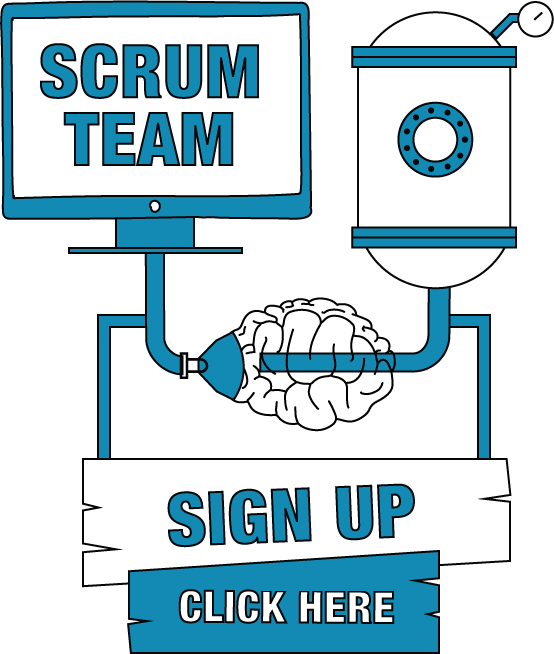
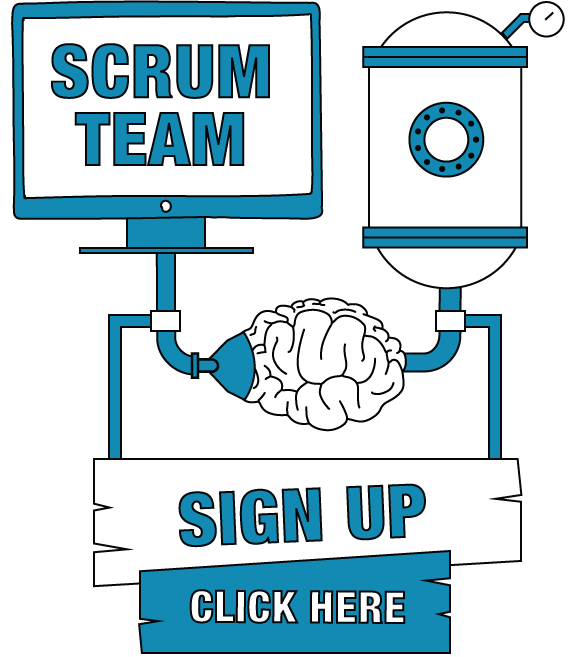
changed to updated images, small changes to dates, footer, removed signup button and added clickarea to image

Changed region(s): [[0.0, 0.0, 1.0, 1.0], [0.7058, 0.1529, 0.8592, 0.2752]]

diff --git a/src/app/home/home.tpl.html b/src/app/home/home.tpl.html
@@ -14,7 +14,7 @@
 		<!-- <h1>Capathon 2016 - Artificial Intelligence</h1> -->
 		<img src="assets/images/artificial_intelligence.png" height="223" width="545">
 
-		<p>After a very successful second edition, we are happy to welcome you all to the next edition: Capathon 2016 - Everybody Must Hack</p>
+		<p>After a very successful second edition, we are happy to welcome you all to the next edition: Capathon 2016 - Artificial Intelligence</p>
 		<p>On this site you will find more information about the event, such as the time and place, the rules, the teams, and you will have the opportunity to sign up for the event.</p>
 		<p>Of course we hope you will all participate. Please read through the site before signing up. See you all there!</p>
 		<p>Due to popularity, we will soon be reaching the maximum number of participants! Note that registration
@@ -45,18 +45,22 @@
 
 			<h2>Time and Place</h2>
 
-			<p>The Capathon kicks off on Thursday, the 4<sup>th</sup> of February 2016 at 18:00 at the <a href="http://www.haje.nu/hotel-heerenveen" target="_blank">Haj&eacute; Hotel Heerenveen</a> in Friesland (the North). The contest runs until the 6<sup>st</sup> of February... exactly 48 hours later. After that, the evening program then runs until around 22:00.</p>
+			<p>The Capathon kicks off on Thursday, the 4<sup>th</sup> of February 2016 at 18:00 at the <a href="http://www.haje.nu/hotel-heerenveen" target="_blank">Haj&eacute; Hotel Heerenveen</a> in Friesland. The contest runs until the 6<sup>st</sup> of February... exactly 48 hours later. After that, the evening program then runs until around 22:00.</p>
 
 			<h2>What's the deal on Friday?</h2>
 
 			<p>Good question. Employees from the following practices will get this friday as a gift from the company:</p>
 			<ul>
-				<li>B50 & B51</li>
-				<li>B60 & B61</li>
-				<li>B70 & B71</li>
-				<li>K51</li>
+				<li>B51</li>
+				<li>B61</li>
+				<li>B71</li>
+				<li>K51*</li>
+				<li>N21*</li>
 			</ul>
+			<p>*The capathon organization will need to get approval from your Practice Manager.</p>
 			<p>Employees from other practices / BUs will have to discuss this day with their manager...</p>
+			
+			
 
 		</div>
 </div>
@@ -80,7 +84,8 @@
 
 <div class="row">
 	<div class="col-md-6">
-		<img src="assets/images/image3.png" height="auto" width="100%"  alt="Capathon 2016">
+			<img src="assets/images/image3.png" height="auto" width="100%"  alt="Capathon 2016" usemap="signupmap">
+			<map name="signupmap"><area shape="rect" coords="90,455,520,655" ng-click="signUp()"></map>
 	</div>
 	<div class="col-md-6">
 	<!-- <h1>Signing up and Grooming session</h1> -->
@@ -96,12 +101,12 @@
 	</ul>
 	<p>Of course, the composition of your team can be changed later… However, the organization wants to know about how many people will be participating.
 	</p>
-	<p>You have to sign up via this website before the 31st of January.
+	<p>You have to sign up via this website before the 1st of January (requires Capgemini login).
 	</p>
 	<p>After the teams have been submitted, the team will be invited to participate in a ‘grooming session’. During this session, the team tell about their plans and the capathon organization will try to challenge these plans with the goal to come up with a realistic innovative backlog draft to be used during the Capathon. This backlog will also be shared with the other teams on this website.
 	</p>
 	
-	<button class="btn btn-primary" ng-click="signUp()">Click here to sign up (requires Capgemini login)</button>
+<!--	<button class="btn btn-primary" ng-click="signUp()">Click here to sign up (requires Capgemini login)</button>-->
 	</div>
 </div>
 
@@ -114,7 +119,7 @@
 	    <li>Your team size is a Scrum-team size (between 3 and 9 people)</li>
 	    <li>Your team participates in all mandatory events at the Capathon (presentation, physical challenges, quizzes, etc.)</li>
 	    <li>You bring your own devices. There are no devices provided for you. You are allowed to bring whatever you want (laptops, extra monitors, google glass, beamers, 3D-printers, etc.)</li>
-	    <li>You have to sign up your team before January 31st! Make sure you have a list of team members and ‘idea’ ready you want to work on</li>
+	    <li>You have to sign up your team before January 1st! Make sure you have a list of team members and ‘idea’ ready you want to work on</li>
 	    <li>Your team has taken part in one of the ‘grooming’ sessions before the event.</li>
 
 	</ul>

diff --git a/src/less/main.less b/src/less/main.less
@@ -33,8 +33,8 @@
  * Generic
  */
 body {
-  // background: url("images/background-full.png");
-  // background-size: 100% 100%;
+  background: url("images/background-Capathon-2016.png");
+  background-size: 100% 100%;
   font-family: Arial, Helvetica, sans-serif;
   // font: 150% @sansFontFamily;
   color: @textColor;
@@ -167,7 +167,7 @@ footer.container {
   margin-top: 100px;
   padding-top:1em;
   padding-bommom: 1em;
-  background-color: lightgrey;
+  background-color: #127db3;
 }
 
 /* Signup */

diff --git a/src/index.html b/src/index.html
@@ -55,8 +55,6 @@
 
 
     <footer class="container">
-        (c) <%= date %> <%= author %> - <a href="http://www.nl.capgemini.com/terms-of-use" target="_blank">Terms of
-        use</a>
     </footer>
 
     <script>
